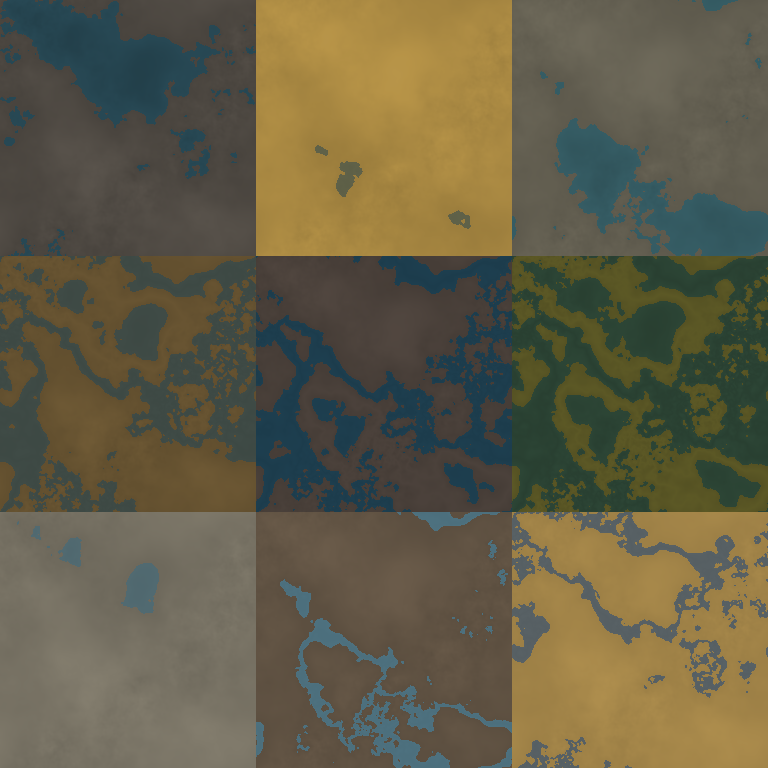
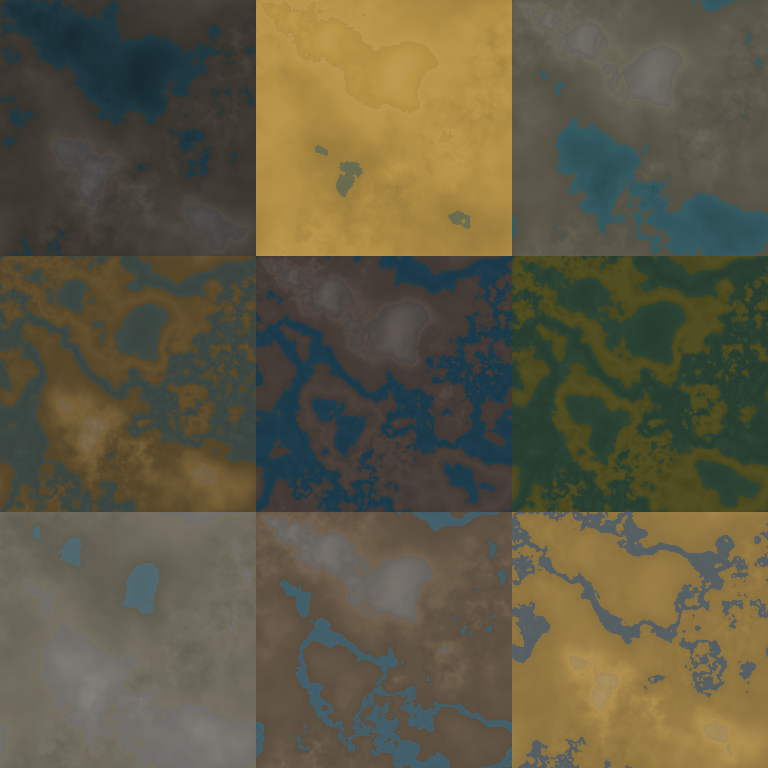
Added mountains.

Changed region(s): [[0.3438, 0.6562, 0.5625, 0.8125]]

diff --git a/lib/terrain.rb b/lib/terrain.rb
@@ -43,29 +43,55 @@ class Terrain
     :jungle     => {                :below => 0.15, :between => [0.40, 0.55]},
     :swamp      => {:above => 0.80, :below => 0.20, :between => [0.40, 0.60]},
   }
+  ROCK = {
+    :desert     => {:below => 0.20, :actual => 0.82 },
+    :grassland  => {:below => 0.30, :actual => 0.81 },
+
+    :tundra     => {:above => 0.80, :actual => 0.76 },
+    :forest     => {:above => 0.70, :actual => 0.80 },
+
+    :savanna    => {:above => 0.68, :actual => 0.86 },
+    :taiga      => {:below => 0.40, :actual => 0.78 },
+
+    :jungle     => {:above => 0.65, :actual => 0.86 },
+    :rainforest => {:below => 0.30, :actual => 0.73 },
+
+    :swamp      => {:actual => 2.00 }, # none 
+  }
+
   COLORS = {
     :dirt  => {
       :desert     => ChunkyPNG::Color.from_hex('#9c7e3d'),
-      :forest     => ChunkyPNG::Color.from_hex('#49443e'),
-      :grassland  => ChunkyPNG::Color.from_hex('#5e5a4d'),
-      :jungle     => ChunkyPNG::Color.from_hex('#624f2f'),
-      :rainforest => ChunkyPNG::Color.from_hex('#463d37'),
-      :savanna    => ChunkyPNG::Color.from_hex('#9d8046'),
-      :swamp      => ChunkyPNG::Color.from_hex('#555223'),
+      :forest     => ChunkyPNG::Color.from_hex('#38342e'),
+      :grassland  => ChunkyPNG::Color.from_hex('#545145'),
+      :jungle     => ChunkyPNG::Color.from_hex('#564629'),
+      :rainforest => ChunkyPNG::Color.from_hex('#423934'),
+      :savanna    => ChunkyPNG::Color.from_hex('#8d733f'),
+      :swamp      => ChunkyPNG::Color.from_hex('#48461e'),
       :taiga      => ChunkyPNG::Color.from_hex('#5c4f40'),
-      :tundra     => ChunkyPNG::Color.from_hex('#6e695c'),
+      :tundra     => ChunkyPNG::Color.from_hex('#615d51'),
     },
     :water => {
-      :desert     => ChunkyPNG::Color.from_hex('#606249'),
-      :forest     => ChunkyPNG::Color.from_hex('#284955'),
+      :desert     => ChunkyPNG::Color.from_hex('#6d6f52'),
+      :forest     => ChunkyPNG::Color.from_hex('#213b45'),
       :grassland  => ChunkyPNG::Color.from_hex('#365d65'),
       :jungle     => ChunkyPNG::Color.from_hex('#404c47'),
       :rainforest => ChunkyPNG::Color.from_hex('#1e3f50'),
       :savanna    => ChunkyPNG::Color.from_hex('#596266'),
       :swamp      => ChunkyPNG::Color.from_hex('#2d4636'),
-      :taiga      => ChunkyPNG::Color.from_hex('#4e7280'),
+      :taiga      => ChunkyPNG::Color.from_hex('#44636f'),
       :tundra     => ChunkyPNG::Color.from_hex('#526b72'),
     },
+    :rock => {
+      :desert     => ChunkyPNG::Color.from_hex('#8d7135'),
+      :forest     => ChunkyPNG::Color.from_hex('#2f2e2d'),
+      :grassland  => ChunkyPNG::Color.from_hex('#4b4944'),
+      :jungle     => ChunkyPNG::Color.from_hex('#504430'),
+      :rainforest => ChunkyPNG::Color.from_hex('#363230'),
+      :savanna    => ChunkyPNG::Color.from_hex('#7e6b44'),
+      :taiga      => ChunkyPNG::Color.from_hex('#504d49'),
+      :tundra     => ChunkyPNG::Color.from_hex('#5c5a57'),
+    }
   }
 
   def initialize(options)
@@ -97,6 +123,7 @@ class Terrain
     @noise.normalize
 
     water = WATER[@type]
+    rock  = ROCK[@type]
     @noise.xy do |x,y|
       value = @noise.fractal[x][y]
 
@@ -104,6 +131,7 @@ class Terrain
         mid1 = water[:below] + (water[:between].first - water[:below])/2.0
         mid2 = water[:between].first + (water[:between].last - water[:between].first)/2.0
         mid3 = water[:between].last + (water[:above] - water[:between].last)/2.0
+
         dist(x, y, value, 0.0, water[:below], wp(water[:below]), 0.5)
         dist(x, y, value, water[:below], mid1, 0.5, dp(water[:between].first - water[:below]))
         dist(x, y, value, mid1, water[:between].first, dp(water[:between].first - water[:below]), 0.5)
@@ -125,7 +153,8 @@ class Terrain
         mid1 = water[:between].first + (water[:between].last - water[:between].first)/2.0
         mid2 = water[:between].last + (water[:above] - water[:between].last)/2.0
 
-        dist(x, y, value, 0.0, water[:between].first, dp(water[:between].first), 0.5)
+        dist(x, y, value, 0.0, rock[:below], 1.0, dp(water[:between].first - rock[:below]))
+        dist(x, y, value, rock[:below], water[:between].first, dp(water[:between].first - rock[:below]), 0.5)
         dist(x, y, value, water[:between].first, mid1, 0.5, wp(water[:between].last - water[:between].first))
         dist(x, y, value, mid1, water[:between].last, wp(water[:between].last - water[:between].first), 0.5) 
         dist(x, y, value, water[:between].last, mid2, 0.5, dp(water[:above] - water[:between].last)) 
@@ -141,23 +170,39 @@ class Terrain
         dist(x, y, value, mid1, water[:between].first, dp(water[:between].first - water[:below]), 0.5)
         dist(x, y, value, water[:between].first, mid2, 0.5, wp(water[:between].last - water[:between].first))
         dist(x, y, value, mid2, water[:between].last, wp(water[:between].last - water[:between].first), 0.5) 
-        dist(x, y, value, water[:between].last, 1.0, 0.5, dp(1.0 - water[:between].last))  
+        dist(x, y, value, water[:between].last, rock[:above], 0.5, dp(rock[:above] - water[:between].last))  
+        dist(x, y, value, rock[:above], 1.0, dp(rock[:above] - water[:between].last), 1.0)  
 
       elsif water[:above]
-        dist(x, y, value, 0.0, water[:above], dp(water[:above]), 0.5)
+        dist(x, y, value, 0.0, rock[:below], 1.0, dp(water[:above] - rock[:below]))
+        dist(x, y, value, rock[:below], water[:above], dp(water[:above] - rock[:below]), 0.5)
         dist(x, y, value, water[:above], 1.0, 0.5, wp(1.0 - water[:above]))
 
       elsif water[:below]
         dist(x, y, value, 0.0, water[:below], wp(water[:below]), 0.5)
-        dist(x, y, value, water[:below], 1.0, 0.5, dp(1.0 - water[:below]))
+        dist(x, y, value, water[:below], rock[:above], 0.5, dp(rock[:above] - water[:below]))
+        dist(x, y, value, rock[:above], 1.0, dp(rock[:above] - water[:below]), 1.0)
 
       elsif water[:between]
         mid = water[:between].first + (water[:between].last - water[:between].first)/2.0
 
-        dist(x, y, value, 0.0, water[:between].first, dp(water[:between].first), 0.5)
+        if rock[:below]
+          dist(x, y, value, 0.0, rock[:below], 1.0, dp(water[:between].first - rock[:below]))
+          dist(x, y, value, rock[:below], water[:between].first, dp(water[:between].first - rock[:below]), 0.5)
+        else
+          dist(x, y, value, 0.0, water[:between].first, dp(water[:between].first), 0.5)
+        end
+
         dist(x, y, value, water[:between].first, mid, 0.5, wp(water[:between].last - water[:between].first))
         dist(x, y, value, mid, water[:between].last, wp(water[:between].last - water[:between].first), 0.5) 
-        dist(x, y, value, water[:between].last, 1.0, 0.5, dp(1.0 - water[:between].last)) 
+
+        if rock[:above]
+          dist(x, y, value, water[:between].last, rock[:above], 0.5, dp(rock[:above] - water[:between].last)) 
+          dist(x, y, value, rock[:above], 1.0, dp(rock[:above] - water[:between].last), 1.0) 
+        else
+          dist(x, y, value, water[:between].last, 1.0, 0.5, dp(1.0 - water[:between].last)) 
+        end
+
       end
     end
   end
@@ -165,13 +210,15 @@ class Terrain
   def output
     @noise.output_xy("#{@output}/#{@type}-#{@seed}-#{@size}.png") do |x,y|
       value   = @noise.fractal[x][y]
-      terrain = value <= 0.5 ? :water : :dirt
+      terrain = value <= 0.5 ? :water : value >= ROCK[@type][:actual] ? :rock : :dirt
       hue,sat,light = ChunkyPNG::Color.to_hsl(COLORS[terrain][@type])
       water   = WATER[@type]
       tsteps  = STEPS[@octave]
       step    = 0
 
-      if terrain == :dirt
+      value = 0.999 if value == 1.0
+
+      if terrain == :dirt || terrain == :rock
         step = ((value - 0.5)/0.5)*tsteps
         light += (@options[:continuous_color] ? step : step.to_i)*0.01
       elsif terrain == :water
